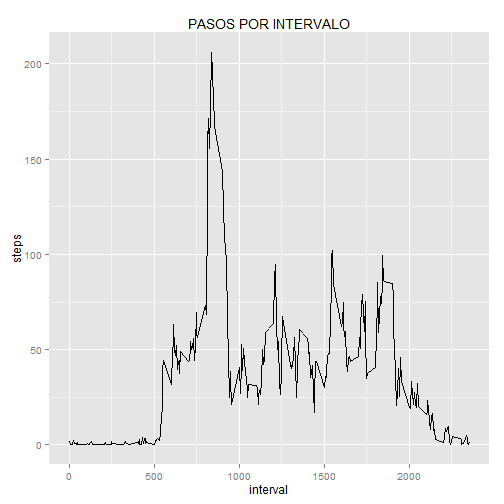
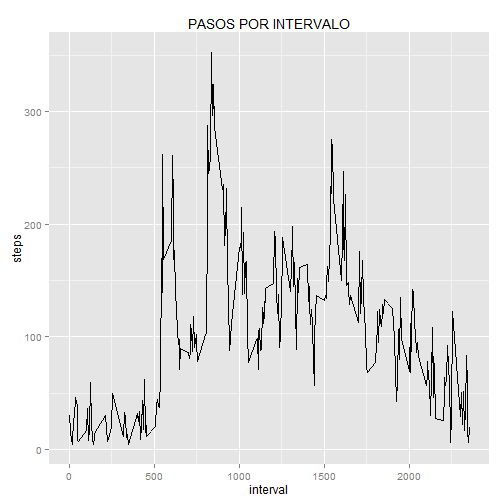
add final files
add final files

diff --git a/PA1_template.html b/PA1_template.html
@@ -195,6 +195,7 @@ hljs.initHighlightingOnLoad();
 
 <pre><code class="r">data_act&lt;-read.csv(&quot;activity.csv&quot;)
 data_act$date&lt;-as.Date(data_act$date)
+data_act$steps&lt;-ifelse(data_act$steps==0,NA,data_act$steps)
 </code></pre>
 
 <h2>What is mean total number of steps taken per day?</h2>
@@ -224,7 +225,7 @@ print(summary)
 </code></pre>
 
 <pre><code>##   mean1 median1
-## 1 37.38       0
+## 1 134.3      56
 </code></pre>
 
 <h2>What is the average daily activity pattern?</h2>
@@ -238,7 +239,7 @@ g&lt;-qplot(interval,steps,data=average_time,geom=&quot;line&quot;)
 g+labs(title=&quot;PASOS POR INTERVALO&quot;)
 </code></pre>
 
[2 lines of base64/hex data omitted]
 
 <p>2.Which 5-minute interval, on average across all the days in the dataset, contains the maximum number of steps?</p>
 
@@ -246,15 +247,17 @@ g+labs(title=&quot;PASOS POR INTERVALO&quot;)
 average_time[average_time$steps==max_time,]
 </code></pre>
 
-<pre><code>##     interval steps
-## 104      835 206.2
+<pre><code>##    interval steps
+## 86      835 352.5
 </code></pre>
 
 <h2>Imputing missing values</h2>
 
 <p>1.Calculate and report the total number of missing values in the dataset (i.e. the total number of rows with NAs)</p>
 
-<pre><code class="r">length(which(is.na(data_act$steps)==TRUE))
+<pre><code class="r">data_act1&lt;-read.csv(&quot;activity.csv&quot;)
+data_act1$date&lt;-as.Date(data_act1$date)
+length(which(is.na(data_act1$steps)==TRUE))
 </code></pre>
 
 <pre><code>## [1] 2304
@@ -264,7 +267,7 @@ average_time[average_time$steps==max_time,]
 
 <p><strong>My strategy was filling the NA&#39;s with the general average per interval&hellip; For example, I use the general mean for 5-minute interval for all the NA&#39;s that belongs in that interval&hellip;</strong></p>
 
-<pre><code class="r">datamerge&lt;-merge(data_act,average_time,by.x=&quot;interval&quot;,by.y=&quot;interval&quot;)
+<pre><code class="r">datamerge&lt;-merge(data_act1,average_time,by.x=&quot;interval&quot;,by.y=&quot;interval&quot;)
 datamerge$steps_f&lt;-ifelse(is.na(datamerge$steps.x),datamerge$steps.y,datamerge$steps.x)
 </code></pre>
 
@@ -272,6 +275,7 @@ datamerge$steps_f&lt;-ifelse(is.na(datamerge$steps.x),datamerge$steps.y,datamerg
 
 <pre><code class="r">data_act_new = data.frame(datamerge$interval, datamerge$date, datamerge$steps_f)  
 colnames(data_act_new)&lt;-c(&quot;interval&quot;,&quot;date&quot;,&quot;steps&quot;)
+data_act_new$steps&lt;-ifelse(data_act_new$steps==0,NA,data_act_new$steps)
 data_act_new&lt;-data_act_new[order(data_act_new$date, data_act_new$interval),]
 </code></pre>
 
@@ -286,7 +290,7 @@ qplot(steps,data=sum_act_new)
 <pre><code>## stat_bin: binwidth defaulted to range/30. Use &#39;binwidth = x&#39; to adjust this.
 </code></pre>
 
[2 lines of base64/hex data omitted]
 
 <h3>THE VALUES ARE THE SAME, BECAUSE A TAKE 0 LIKE A REAL LECTURE</h3>
 
@@ -297,7 +301,7 @@ print(summary_new)
 </code></pre>
 
 <pre><code>##   mean2 median2
-## 1 37.38       0
+## 1 125.4      72
 </code></pre>
 
 <h2>Are there differences in activity patterns between weekdays and weekends?</h2>
@@ -316,7 +320,7 @@ average_time_new&lt;-dcast(melt_time_new1,interval+type_day~variable,mean)
 qplot(interval,steps,data=average_time_new,facets=type_day~.,geom=&quot;line&quot;)
 </code></pre>
 
[2 lines of base64/hex data omitted]
 
 </body>
 

diff --git a/PA1_template.md b/PA1_template.md
@@ -17,6 +17,7 @@ It is now possible to collect a large amount of data about personal movement usi
 ```r
 data_act<-read.csv("activity.csv")
 data_act$date<-as.Date(data_act$date)
+data_act$steps<-ifelse(data_act$steps==0,NA,data_act$steps)
 ```
 
 ## What is mean total number of steps taken per day?
@@ -52,7 +53,7 @@ print(summary)
 
 ```
 ##   mean1 median1
-## 1 37.38       0
+## 1 134.3      56
 ```
 
 ## What is the average daily activity pattern?
@@ -79,8 +80,8 @@ average_time[average_time$steps==max_time,]
 ```
 
 ```
-##     interval steps
-## 104      835 206.2
+##    interval steps
+## 86      835 352.5
 ```
 ## Imputing missing values
 
@@ -88,7 +89,9 @@ average_time[average_time$steps==max_time,]
 
 
 ```r
-length(which(is.na(data_act$steps)==TRUE))
+data_act1<-read.csv("activity.csv")
+data_act1$date<-as.Date(data_act1$date)
+length(which(is.na(data_act1$steps)==TRUE))
 ```
 
 ```
@@ -101,7 +104,7 @@ length(which(is.na(data_act$steps)==TRUE))
 
 
 ```r
-datamerge<-merge(data_act,average_time,by.x="interval",by.y="interval")
+datamerge<-merge(data_act1,average_time,by.x="interval",by.y="interval")
 datamerge$steps_f<-ifelse(is.na(datamerge$steps.x),datamerge$steps.y,datamerge$steps.x)
 ```
 
@@ -111,6 +114,7 @@ datamerge$steps_f<-ifelse(is.na(datamerge$steps.x),datamerge$steps.y,datamerge$s
 ```r
 data_act_new = data.frame(datamerge$interval, datamerge$date, datamerge$steps_f)  
 colnames(data_act_new)<-c("interval","date","steps")
+data_act_new$steps<-ifelse(data_act_new$steps==0,NA,data_act_new$steps)
 data_act_new<-data_act_new[order(data_act_new$date, data_act_new$interval),]
 ```
 
@@ -141,7 +145,7 @@ print(summary_new)
 
 ```
 ##   mean2 median2
-## 1 37.38       0
+## 1 125.4      72
 ```
 ## Are there differences in activity patterns between weekdays and weekends?
 
